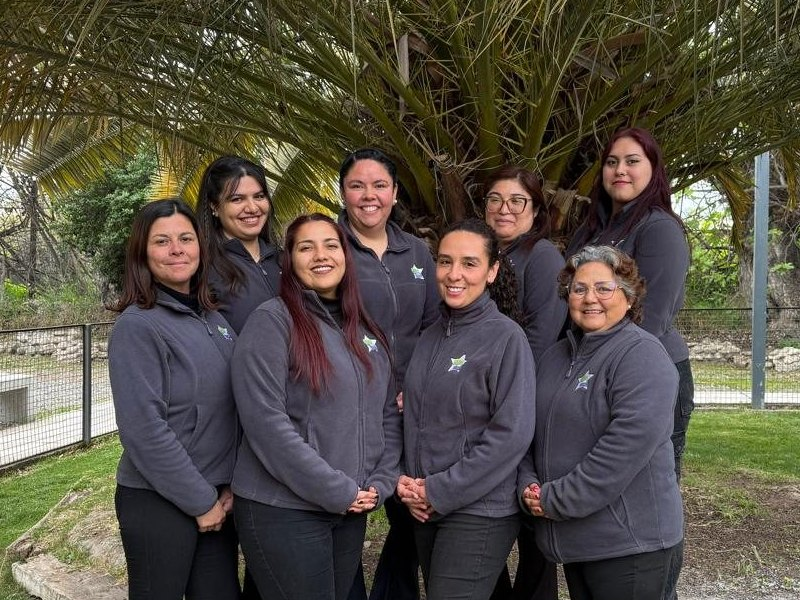
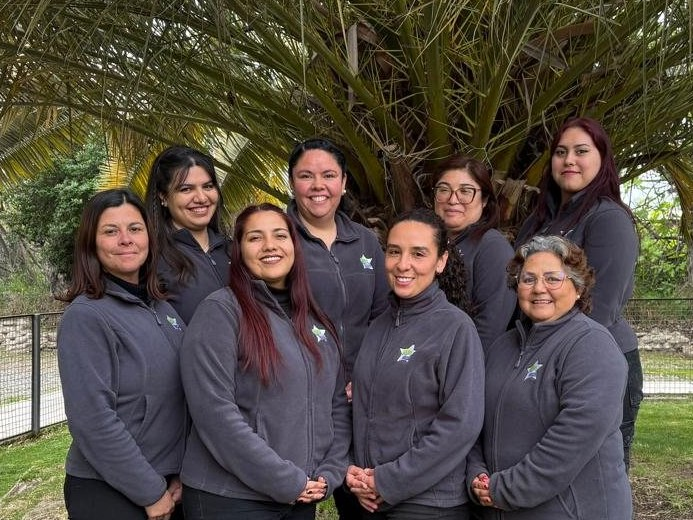
Equipo: foto del equipo desde la cadera (sin pasto)

diff --git a/equipo/index.html b/equipo/index.html
@@ -49,7 +49,7 @@
       <h1>Las <em>personas</em></h1>
       <p>Un equipo que mira a cada niño y niña con atención: se preocupa de sus emociones, está pendiente de los detalles y acompaña sus procesos sin apurarlos. Educadoras reflexivas, que se capacitan constantemente con Dani y con otras instituciones en la filosofía Reggio Emilia, y que cada día se preguntan cómo acompañar mejor a tu hijo o hija.</p>
     </div>
-    <div class="ph-foto"><img src="../img/equipo-2026-cabecera.jpg" alt="El equipo de Bianca Stella frente a la palmera" style="object-position:center 30%"></div>
+    <div class="ph-foto"><img src="../img/equipo-2026-cabecera.jpg?v=2" alt="El equipo de Bianca Stella frente a la palmera" style="object-position:center 30%"></div>
   </div>
 </header><section class="section section-light" id="fundadora">
   <div class="container">
